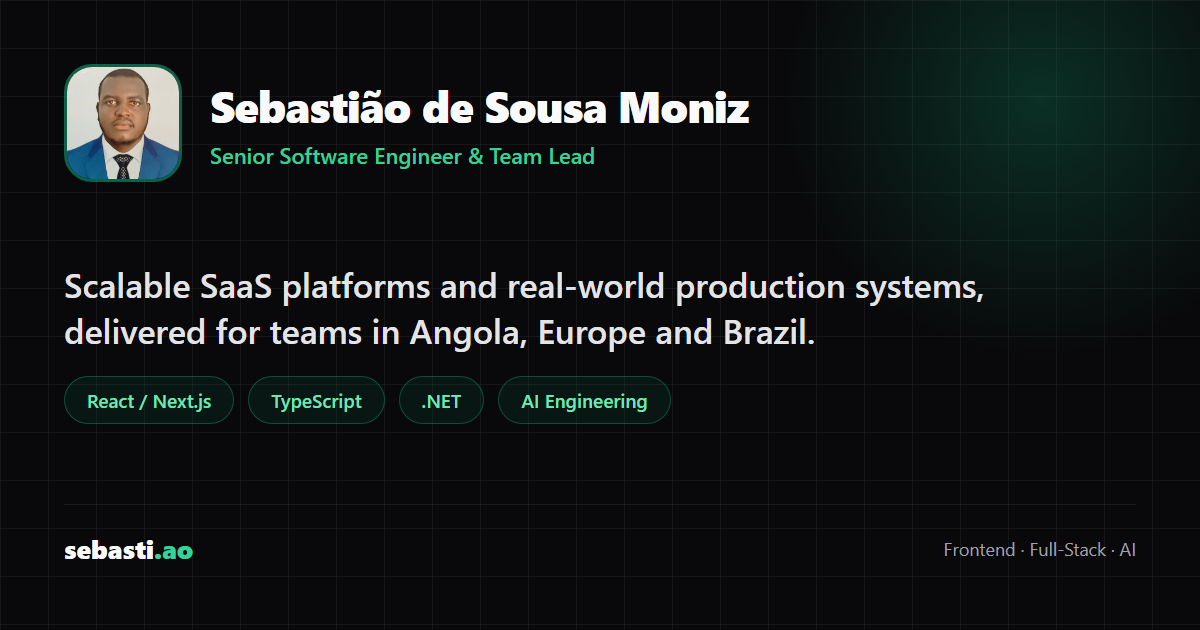
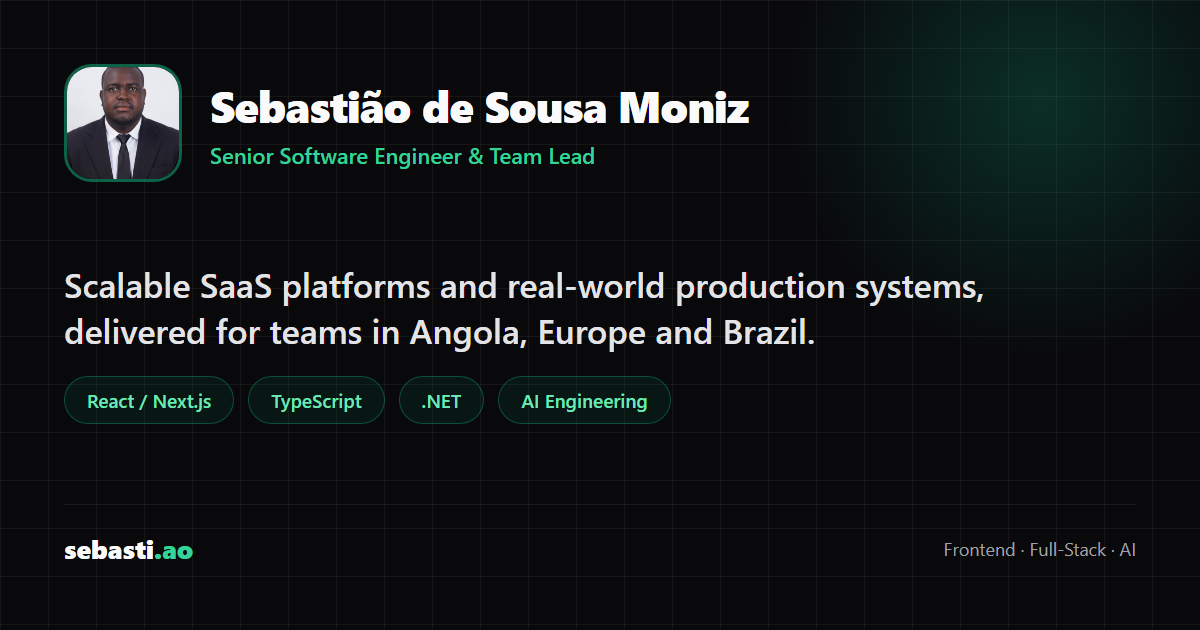
feat: replace the portrait with the new professional photo
Swaps the ID style photo for the new studio portrait across the hero, the Open Graph card and the CV photo option, with object fit cover in the PDF templates so the new framing is never distorted.

Changed region(s): [[0.0308, 0.0905, 0.1542, 0.3016]]

diff --git a/src/components/sections/Hero.tsx b/src/components/sections/Hero.tsx
@@ -45,14 +45,14 @@ export function Hero() {
 
           <aside className="border border-ink/25 bg-raised">
             <div className="border-b border-line">
-              <Image
-                src="/myphoto.jpg"
-                alt={t("profileName")}
-                width={480}
-                height={560}
-                priority
-                className="w-full h-auto object-cover"
-              />
+                <Image
+                  src="/myphoto.jpg"
+                  alt={t("profileName")}
+                  width={894}
+                  height={1200}
+                  priority
+                  className="w-full h-auto object-cover object-top"
+                />
             </div>
             <div className="p-6">
               <p className="font-display text-lg leading-snug">{t("profileName")}</p>

diff --git a/src/components/cv/templates/CVModern.tsx b/src/components/cv/templates/CVModern.tsx
@@ -72,6 +72,7 @@ const styles = StyleSheet.create({
     height: 64,
     borderStyle: "solid",
     borderWidth: 1,
+    objectFit: "cover",
     borderColor: colors.line,
   },
   section: {

diff --git a/src/components/cv/templates/CVStandard.tsx b/src/components/cv/templates/CVStandard.tsx
@@ -63,6 +63,7 @@ const styles = StyleSheet.create({
     height: 68,
     borderStyle: "solid",
     borderWidth: 1,
+    objectFit: "cover",
     borderColor: colors.line,
   },
   section: {

diff --git a/src/components/cv/templates/CVExecutive.tsx b/src/components/cv/templates/CVExecutive.tsx
@@ -40,6 +40,7 @@ const styles = StyleSheet.create({
     height: 70,
     borderStyle: "solid",
     borderWidth: 1,
+    objectFit: "cover",
     borderColor: colors.line,
   },
   name: {
